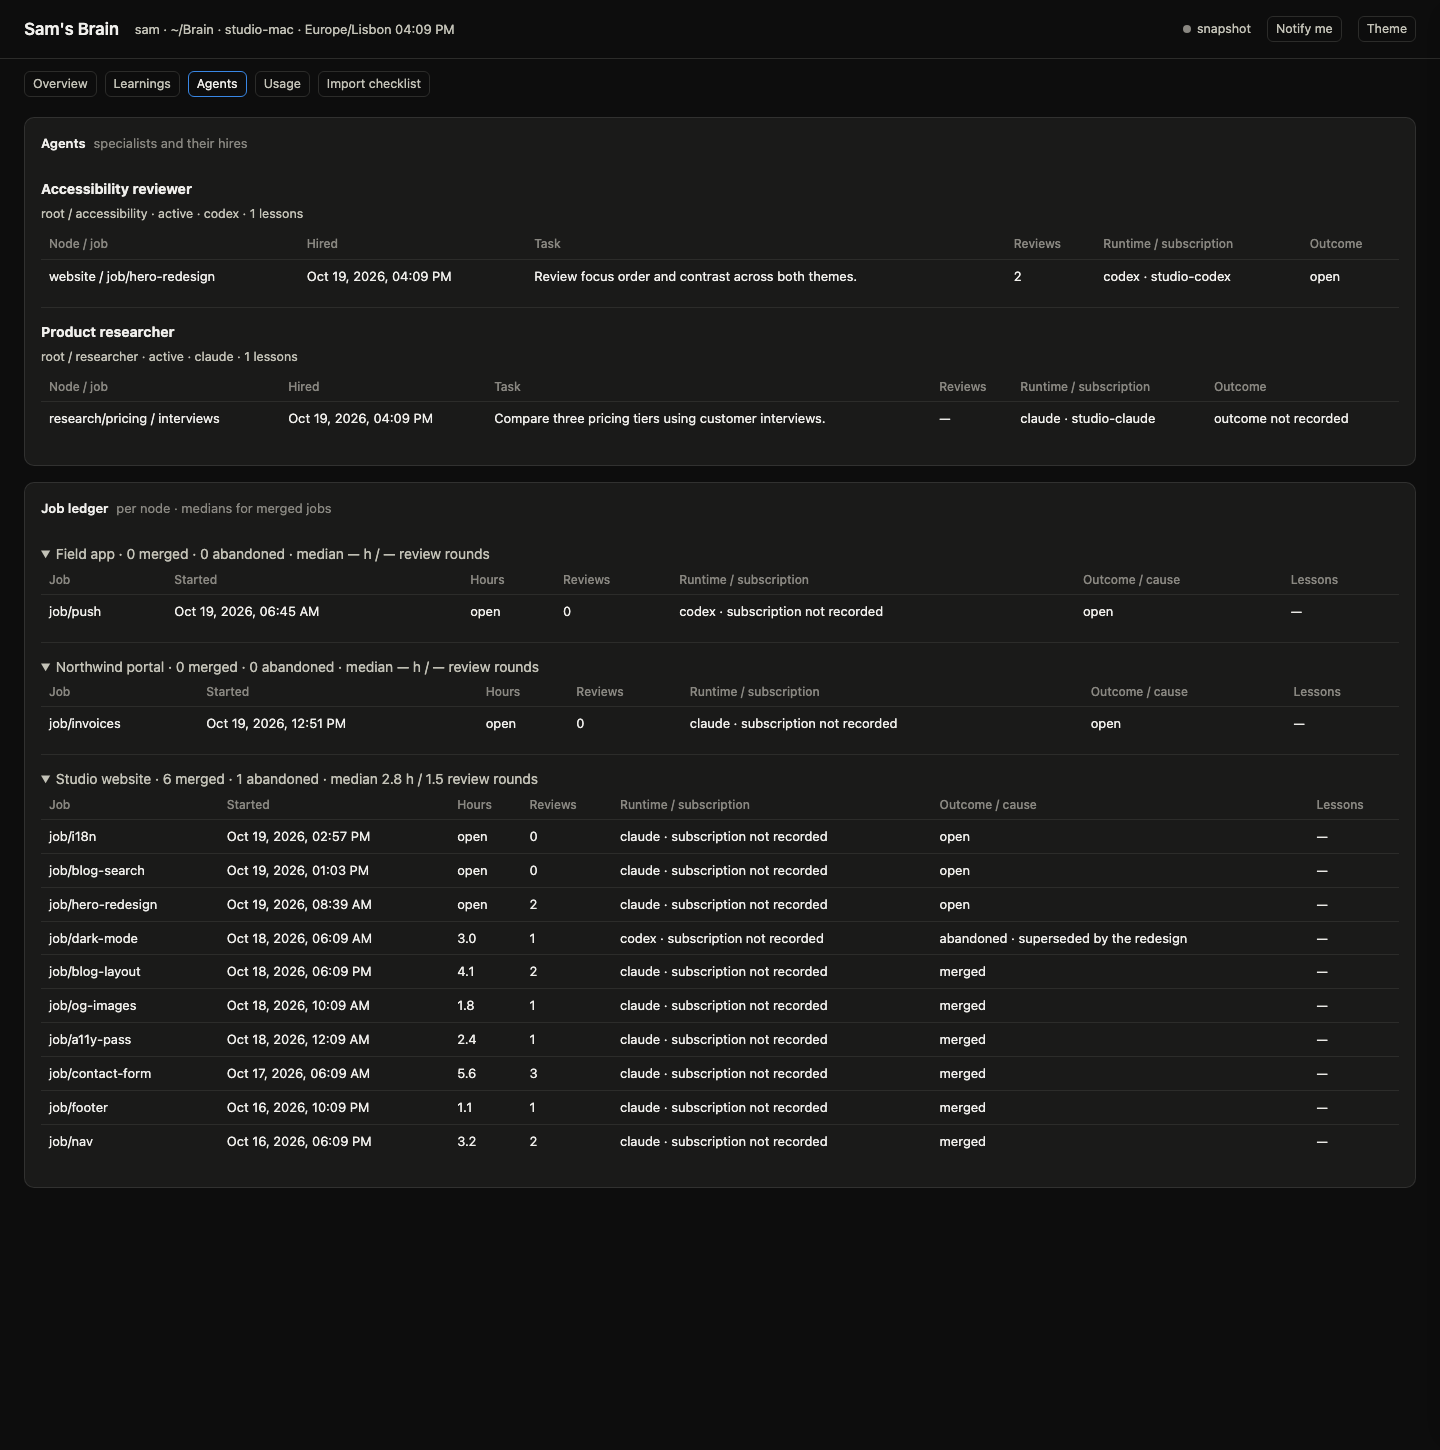
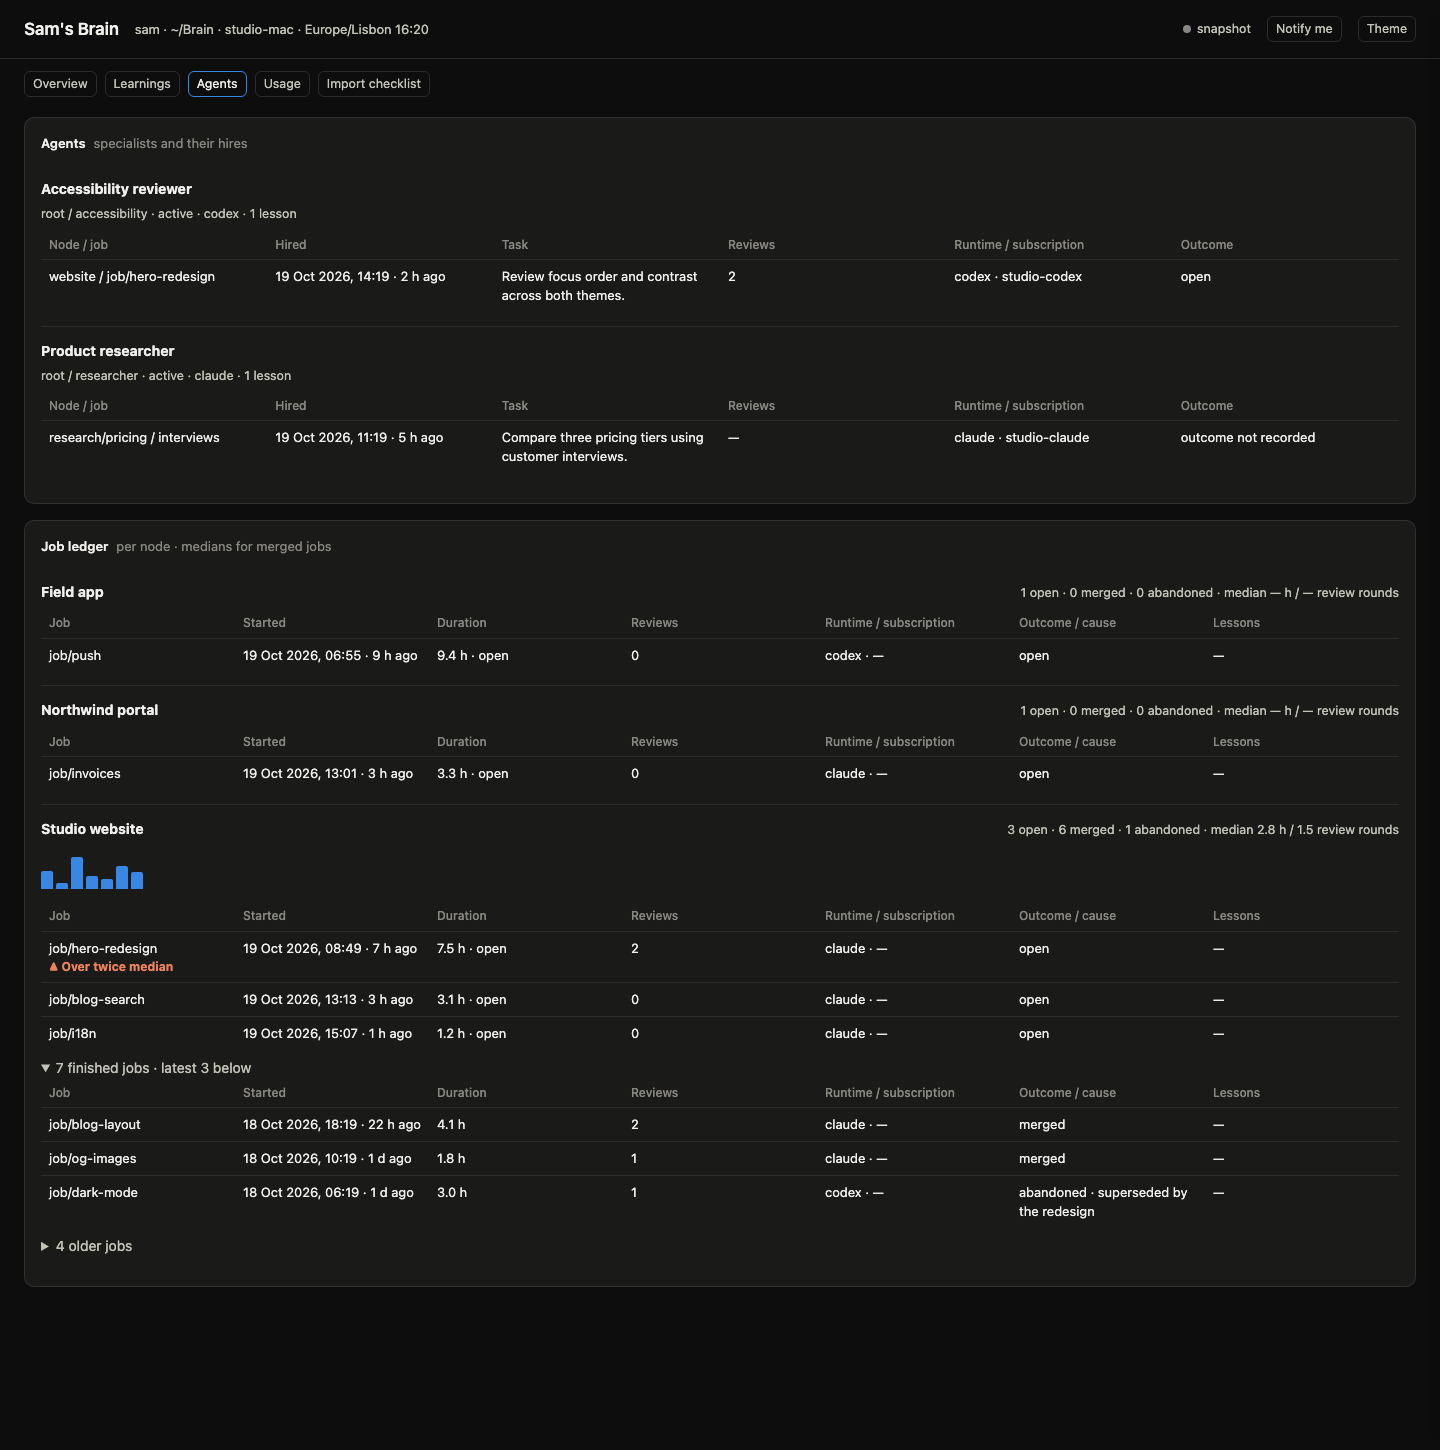
Refresh showcase fixtures and inspect dark light and stress screenshots

diff --git a/docs/make-screenshots.py b/docs/make-screenshots.py
@@ -71,9 +71,9 @@ def build(base):
         "--tz", "Europe/Lisbon", "--name", "sam", cwd=base)
     b = lambda *a: run(sys.executable, root / "core" / "bin" / "brain", *a, cwd=root)  # noqa: E731
     code = base / "code"
-    web = home_repo(code / "website", {"README.md": "# Studio website\n", "package.json": "{}\n"})
-    app = home_repo(code / "mobile-app", {"README.md": "# Field app\n"})
-    nw = home_repo(code / "northwind-portal", {"README.md": "# Portal\n"})
+    web = home_repo(code / "website", {"README.md": "# Studio website\n", "package.json": "{}\n", "src/index.ts": "export const title = 'Studio website';\n", "src/style.css": "body { margin: 0; }\n"})
+    app = home_repo(code / "mobile-app", {"README.md": "# Field app\n", "src/sync.ts": "export const offline = true;\n", "ios/App.swift": "import SwiftUI\n"})
+    nw = home_repo(code / "northwind-portal", {"README.md": "# Portal\n", "src/invoices.ts": "export const invoices = [];\n"})
     b("principal", "add", "northwind")
     b("new", "website", "--title", "Studio website", "--home", web, "--labels", "kind:code,area:studio", "--runtime", "claude")
     b("new", "mobile-app", "--title", "Field app", "--home", app, "--labels", "kind:code,area:studio", "--runtime", "codex")
@@ -192,7 +192,7 @@ def build(base):
                                            ("review-two-runtimes", "A second runtime reviews every change before you see it", "website")]):
         b("item", "add", iid, "--from", src, "--title", title, "--kind", "lesson", "--ref", "job report", "--body", title)
     b("item", "add", "import-search", "--from", "website", "--title", "Review imported search ranking guidance", "--kind", "lesson",
-      "--ref", "import: notes.md at 8a61f20", "--body", "Prefer title matches, then explain the tie-breaker.",
+      "--ref", "import: notes.md at 8a61f20", "--body", "Rank results by the strongest signal. Keep the order predictable.\n\n- Prefer title matches over body matches.\n- Break ties by recency.\n\n```ts\nconst rank = titleMatch ? 2 : 1;\n```\n\nExplain the tie-breaker in the search help.",
       "--proposed", "--repo", "studio/search-notes", "--commit", "8a61f20" + "0" * 33)
     b("specialist", "new", "accessibility", "--title", "Accessibility reviewer", "--runtime", "codex")
     b("specialist", "new", "researcher", "--title", "Product researcher", "--runtime", "claude")
@@ -215,6 +215,17 @@ def build(base):
     brain_mod = importlib.util.module_from_spec(spec)
     loader.exec_module(brain_mod)
     inst = brain_mod.Instance(root)
+    # Backdate the actual demo files, so every exported view uses the same chronology.
+    for item, hours in zip(inst.items(), [74, 29, 8, 2.5]):
+        fm, body = brain_mod.read_fm(item["path"])
+        fm["learned_at"] = at(hours)
+        brain_mod.write_fm(item["path"], fm, body)
+    for sp, hours in zip(brain_mod.find_specialists(inst), [17, 41]):
+        lessons = sp["dir"] / "lessons.md"
+        text = lessons.read_text()
+        for lesson in brain_mod.parse_lessons(lessons):
+            text = text.replace(lesson["time"], at(hours))
+        lessons.write_text(text)
     n = inst.node("website")
     ledger = brain_mod.read_jobs(n)
     for row in ledger:
@@ -237,19 +248,25 @@ def build(base):
     # Fake account-wide readings; no provider calls or credentials are used.
     config = {"stop_percent":85, "subscriptions":[
         {"id":"studio-codex", "label":"Studio", "runtime":"codex", "config_dir":str(base / "fake-codex"), "host_provider_instance_id":"demo-codex", "brains":["sam"]},
-        {"id":"studio-claude", "label":"Research", "runtime":"claude", "config_dir":str(base / "fake-claude"), "host_provider_instance_id":"demo-claude", "brains":["sam"]}]}
+        {"id":"studio-claude", "label":"Research", "runtime":"claude", "config_dir":str(base / "fake-claude"), "host_provider_instance_id":"demo-claude", "brains":["sam"]},
+        {"id":"studio-overflow", "label":"Overflow", "runtime":"codex", "config_dir":str(base / "fake-overflow"), "host_provider_instance_id":"demo-overflow", "brains":["sam"]},
+        {"id":"travel-claude", "label":"Travel", "runtime":"claude", "config_dir":str(base / "fake-travel"), "host_provider_instance_id":"demo-travel", "brains":["sam"]}]}
     (base / "subscriptions.json").write_text(json.dumps(config))
     inst = brain_mod.Instance(root)
     for hire in inst.local.get("hires", []):
         hire["runtime"] = "codex" if hire["specialist"] == "accessibility" else "claude"
         hire["subscription"] = "studio-" + hire["runtime"]
+        hire["time"] = at(2 if hire["specialist"] == "accessibility" else 5)
+        job = next((r for r in brain_mod.read_jobs(inst.node(hire["node"])) if r["Job"] == hire["job"]), None)
+        if job:
+            hire["started"] = job["Started"]
     inst.save_local()
     subs = brain_mod.usage_config()["subscriptions"]
     cache = {"version":1, "checked_at":dt.datetime.now(dt.timezone.utc).timestamp(), "poll_interval_seconds":300, "subscriptions":[{**sub, "account_key":"demo-" + sub["id"]} for sub in subs], "accounts":{}}
     for index, sub in enumerate(subs):
-        read_at = NOW.timestamp() - (35 if index == 0 else 7200)
-        windows = {"five_hour":{"used_percent":38 if index == 0 else 64, "resets_at":NOW.timestamp()+7200},
-                   "seven_day":{"used_percent":57 if index == 0 else 81, "resets_at":NOW.timestamp()+172800}}
+        read_at = NOW.timestamp() - (7200 if index == 3 else 35)
+        windows = {"five_hour":{"used_percent":[38, 64, 87, 23][index], "resets_at":NOW.timestamp()+11520},
+                   "seven_day":{"used_percent":[57, 81, 68, 42][index], "resets_at":NOW.timestamp()+172800}}
         if index == 1:
             windows["seven_day_model:sonnet"] = {"used_percent":46, "resets_at":NOW.timestamp()+172800, "models":["sonnet"]}
         cache["accounts"]["demo-" + sub["id"]] = {"read_at":read_at, "source":"lookup", "windows":{key:{**w, "read_at":read_at, "source":"lookup"} for key,w in windows.items()}}
@@ -257,7 +274,7 @@ def build(base):
     return root, b
 
 
-def snapshot(root, b, theme, out, hash_="", size=(1440, 1000)):
+def snapshot(root, b, theme, out, hash_="", size=(1440, 1000), stress=False):
     st = json.loads(b("ui", "--json", "--scan", root.parent / "code"))
     st["brain"].update(root="~/Brain", machine="studio-mac", others=[])
     st["machine"].update(cpus=12, load=[4.2, 3.9, 3.1], mem_free_gb=21.4, mem_total_gb=36, disk_free_gb=312,
@@ -270,9 +287,20 @@ def snapshot(root, b, theme, out, hash_="", size=(1440, 1000)):
         n["home"] = n["home"].replace(str(root.parent), "~")
     # Replace every temporary path in the exported snapshot, including scan candidates.
     st = json.loads(json.dumps(st).replace(str(root.parent), "~"))
+    if stress:
+        long_name = "ExtremelyLongNodeAndLearningNameWithoutAnySpaces" * 7
+        for n in st["nodes"]:
+            n["title"] = long_name
+        st["items"]["all"] = [{"id":f"stress-{i}", "title":long_name + str(i), "status":"active",
+            "body":"A paragraph.\n\n- A long list item " + long_name + "\n\n```\n" + long_name + "\n```",
+            "provenance":{"node":long_name, "ref":long_name, "time":at(i+1)}} for i in range(500)]
+        st["items"]["count"] = 500
+        st["specialists"] = []
     html = (CORE / "ui" / "index.html").read_text().replace(".2s ease", "0s")
     html = html.replace('<script>\n"use strict";', "<script>window.__STATE__=" + json.dumps(st).replace("</", "<\\/")
                         + ';</script>\n<script>\n"use strict";', 1)
+    setup = '<script>if (location.hash === "#view=imports") { const box = document.querySelector("#scan-results input:not(:disabled)"); if (box) box.click(); } if (location.hash === "#view=learnings") { const d = document.querySelector("#learning-results details"); if (d) d.open = true; }</script>'
+    html = html.replace('</body>', setup + '</body>')
     if theme == "light":
         html = html.replace("<html lang=\"en\">", "<html lang=\"en\" data-theme=\"light\">", 1)
     else:
@@ -298,15 +326,20 @@ def check_ui(root, b):
     runner = '<script>try { const result = ' + checks + '; document.body.append(Object.assign(document.createElement("pre"), {id:"ui-check-result", textContent:JSON.stringify(result)})); } catch(e) { document.body.append(Object.assign(document.createElement("pre"), {id:"ui-check-error", textContent:String(e.stack)})); }</script>'
     page = root.parent / "checks.html"
     page.write_text(html.replace('</body>', runner + '</body>'))
-    with tempfile.TemporaryDirectory() as profile:
-        result = subprocess.run([CHROME, "--headless=new", "--disable-gpu", f"--user-data-dir={profile}", "--dump-dom", "--virtual-time-budget=3000", page.as_uri()], capture_output=True, text=True, timeout=120)
     import re
     import html as html_module
-    match = re.search(r'<pre id="ui-check-result">(.*?)</pre>', result.stdout, re.S)
-    if not match:
-        error = re.search(r'<pre id="ui-check-error">(.*?)</pre>', result.stdout, re.S)
-        raise RuntimeError(html_module.unescape(error.group(1)) if error else "UI checks did not complete")
-    report = json.loads(html_module.unescape(match.group(1)))
+    report = {"checks":[]}
+    for width in (1440, 600):
+        with tempfile.TemporaryDirectory() as profile:
+            result = subprocess.run([CHROME, "--headless=new", "--disable-gpu", f"--user-data-dir={profile}",
+                f"--window-size={width},1000", "--dump-dom", "--virtual-time-budget=3000", page.as_uri()],
+                capture_output=True, text=True, timeout=120)
+        match = re.search(r'<pre id="ui-check-result">(.*?)</pre>', result.stdout, re.S)
+        if not match:
+            error = re.search(r'<pre id="ui-check-error">(.*?)</pre>', result.stdout, re.S)
+            raise RuntimeError(f"Chrome {width}px: " + (html_module.unescape(error.group(1)) if error else "UI checks did not complete"))
+        checks_at_width = json.loads(html_module.unescape(match.group(1)))
+        report["checks"].extend(f"{width}px: {name}" for name in checks_at_width["checks"])
     # Reopen the same snapshot in two Chrome processes sharing one disposable profile.
     # A stub records delivery; native notifications and runtime lookups never run.
     stub = '<script>localStorage.setItem("brain-notify","1"); window.Notification=class { static permission="granted"; constructor() { localStorage.setItem("delivery-count",String(Number(localStorage.getItem("delivery-count")||0)+1)); } }; window.EventSource=class { constructor() { throw new Error("Snapshot opened a live connection"); } };</script>'
@@ -333,12 +366,17 @@ def main():
     base = Path(tempfile.mkdtemp(prefix="brain-demo-")).resolve()
     try:
         root, b = build(base)
+        if "--checks-only" in sys.argv:
+            check_ui(root, b)
+            return
         snapshot(root, b, "dark", OUT / "ui-dark.png", size=(1440, 1270))
         snapshot(root, b, "light", OUT / "ui-light.png", size=(1440, 1270))
         snapshot(root, b, "dark", OUT / "ui-project.png", "#node=website", size=(1440, 1000))
         for view in ("learnings", "agents", "usage", "imports"):
             for theme in ("dark", "light"):
-                snapshot(root, b, theme, OUT / f"ui-{view}-{theme}.png", "#view=" + view, size=(1440, 1450 if view == "agents" else 1200))
+                snapshot(root, b, theme, OUT / f"ui-{view}-{theme}.png", "#view=" + view, size=(1440, 1450 if view == "agents" else 1280 if view == "learnings" else 1200))
+        snapshot(root, b, "dark", OUT / "ui-stress-dark.png", "#view=learnings", size=(1440, 1200), stress=True)
+        snapshot(root, b, "light", OUT / "ui-stress-mobile.png", "#view=learnings", size=(600, 1000), stress=True)
         check_ui(root, b)
         dash = b().replace(str(root.parent), "~").replace("machine Mac", "machine studio-mac")
         (OUT / "dashboard.txt").write_text("\n".join(line.rstrip() for line in dash.splitlines()) + "\n")
